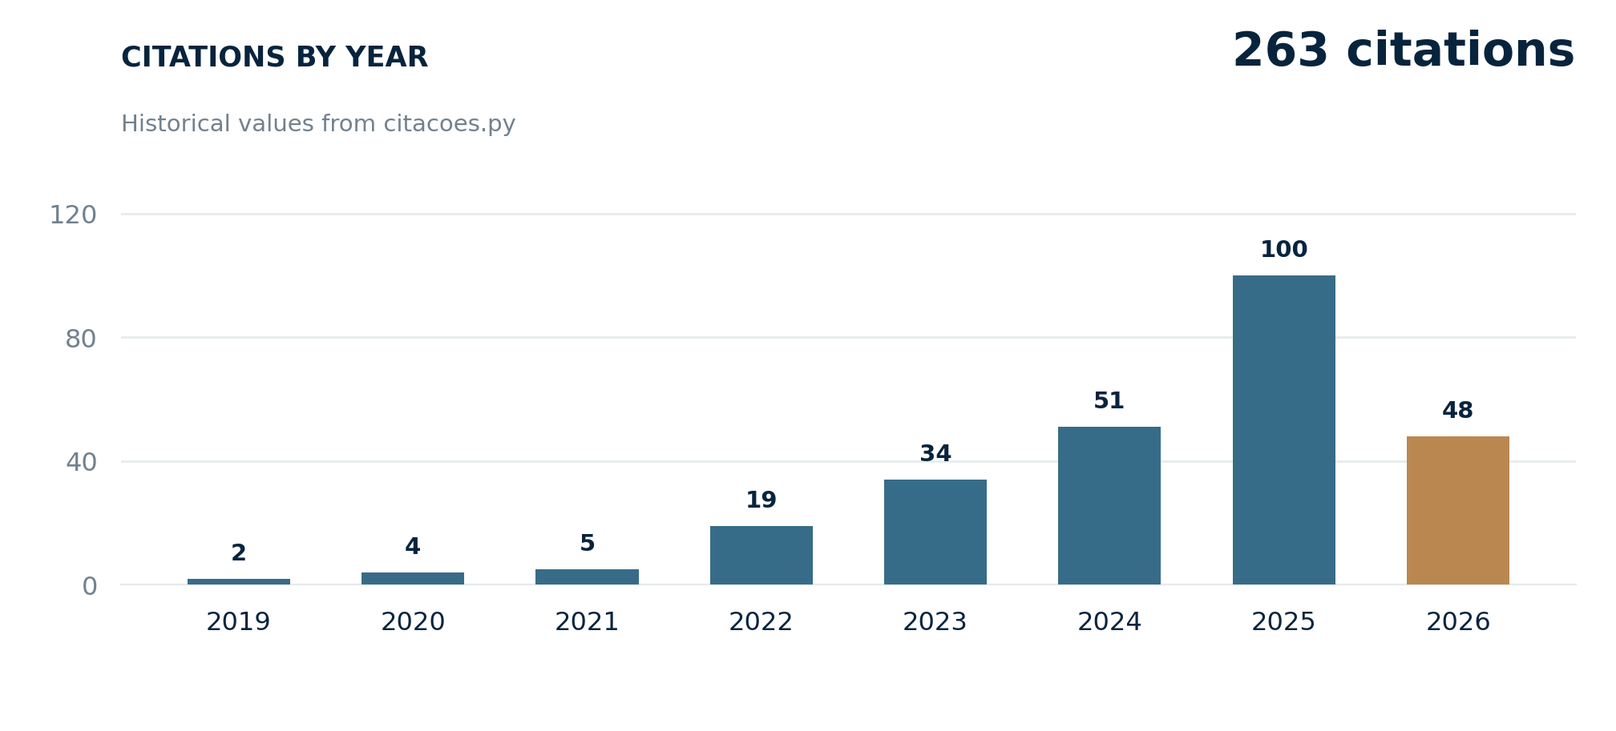
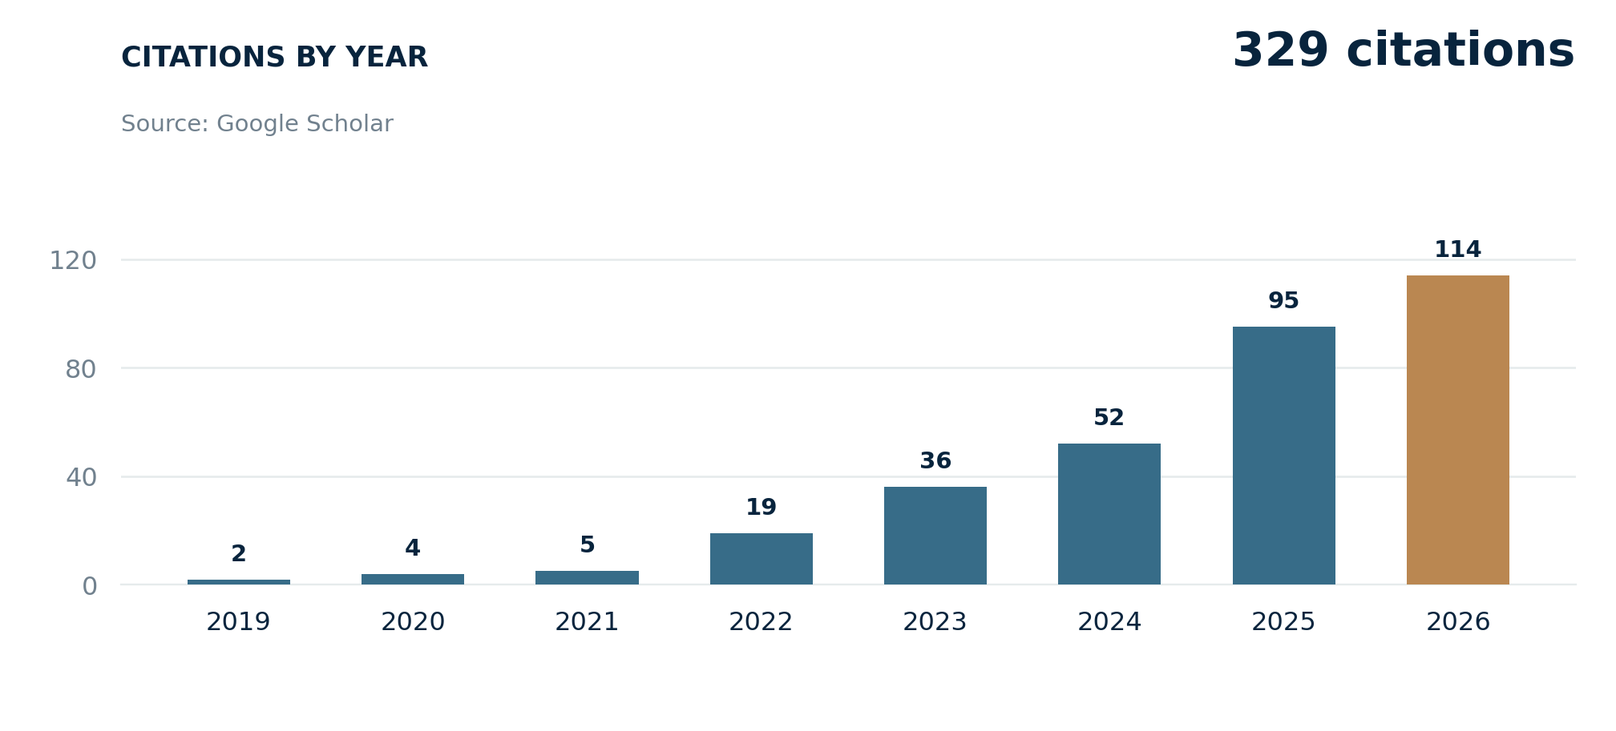
publications

diff --git a/publications.html b/publications.html
@@ -1,17 +1,332 @@
 <!DOCTYPE html>
-
 <html lang="en">
-<head>
-<meta charset="utf-8"/><meta content="width=device-width, initial-scale=1" name="viewport"/>
-<title>Publications</title>
-<meta content="Peer-reviewed articles, academic theses and publication metrics." name="description"/>
-<meta content="#08243d" name="theme-color"/><meta content="light" name="color-scheme"/>
-<meta content="website" property="og:type"/><meta content="Gustavo Madeira" property="og:site_name"/><meta content="Publications | Gustavo Madeira" property="og:title"/><meta content="Peer-reviewed articles, academic theses and publication metrics." property="og:description"/><meta content="https://gusmadeira.github.io/assets/og-cover.jpg" property="og:image"/>
-<link href="https://gusmadeira.github.io/publications.html" rel="canonical"/>
-<link href="assets/favicon.svg" rel="icon" type="image/svg+xml"/><link href="assets/favicon-32.png" rel="alternate icon" type="image/png"/><link href="assets/apple-touch-icon.png" rel="apple-touch-icon"/>
-<link href="https://fonts.googleapis.com" rel="preconnect"/><link crossorigin="" href="https://fonts.gstatic.com" rel="preconnect"/>
-<link href="https://fonts.googleapis.com/css2?family=DM+Sans:wght@400;500;600;700&amp;family=Instrument+Serif:ital@0;1&amp;display=swap" rel="stylesheet"/>
-<link href="styles.css" rel="stylesheet"/>
-<script defer="" src="assets/site.js"></script>
-</head><body><a class="skip-link" href="#main">Skip to content</a>
-<div data-site-header data-active="publications"></div><main id="main"><section aria-labelledby="page-heading" class="page-hero"><div class="container page-hero-content"><p class="eyebrow light-eyebrow">PUBLICATIONS</p><h1 class="display" id="page-heading">Publications</h1><p class="page-summary">Peer-reviewed articles, academic theses and publication metrics.</p></div><div aria-hidden="true" class="page-orbit"><i></i><i></i><i></i></div></section><section class="section-space"><div class="container"><div class="section-heading"><div><p class="eyebrow dark-eyebrow">PUBLICATION RECORD</p><h2 class="display">Articles and theses</h2></div><a class="text-link" href="https://scholar.google.com/citations?user=ZF1mcjoAAAAJ" rel="noopener noreferrer" target="_blank">Google Scholar <span aria-hidden="true">↗</span></a></div><div class="publication-summary"><div class="pub-stats"><div class="eyebrow dark-eyebrow" data-scholar-date>BIBLIOMETRICS / JUNE 2026</div><strong>Research by the numbers</strong><p data-scholar-source>As reported on Google Scholar and the previous version of this website (17 June 2026).</p><div class="metrics"><div><b data-scholar-hindex>11</b><span>h-index</span></div><div><b>24</b><span>Peer-reviewed articles</span></div><div><b>14</b><span>First-author articles</span></div></div></div><div class="pub-chart"><img data-scholar-chart alt="Citation statistics from Google Scholar, updated 17 June 2026" loading="lazy" src="research/output.png"/><small data-scholar-caption>Google Scholar snapshot · 17 June 2026</small></div></div><div class="publications-list"><section class="publication-year" id="year-2026"><div class="publication-year-side"><span>2026</span></div><div class="publication-entries"><a class="pub-entry" href="https://doi.org/10.3847/PSJ/ae81a8" rel="noopener noreferrer" target="_blank"><span class="pub-author">Madeira et al.</span><span class="pub-name">Dynamical Implications of the Recently Detected Feature around Quaoar and Constraints on the Presence of Additional Satellites</span><b aria-hidden="true">↗</b></a><a class="pub-entry" href="https://doi.org/10.1093/mnras/stag761" rel="noopener noreferrer" target="_blank"><span class="pub-author">Pinheiro et al.</span><span class="pub-name">Decoding transit variations: disentangling satellites from planets through numerical modulation</span><b aria-hidden="true">↗</b></a><a class="pub-entry" href="https://iopscience.iop.org/article/10.3847/2041-8213/ae4751" rel="noopener noreferrer" target="_blank"><span class="pub-author">Braga-Ribas et al.</span><span class="pub-name">Evidence of a New Arc or a Belt of Small Satellites around (50000) Quaoar</span><b aria-hidden="true">↗</b></a><a class="pub-entry" href="https://rdcu.be/eJo4H" rel="noopener noreferrer" target="_blank"><span class="pub-author">Madeira et al.</span><span class="pub-name">Do self-gravitating hard-sphere disk simulations form Darwin ellipsoids?</span><b aria-hidden="true">↗</b></a></div></section><section class="publication-year" id="year-2025"><div class="publication-year-side"><span>2025</span></div><div class="publication-entries"><a class="pub-entry" href="https://www.nature.com/articles/s41467-025-66484-3" rel="noopener noreferrer" target="_blank"><span class="pub-author">Raducan et al.</span><span class="pub-name">Multiple moonlet mergers as the origin of the Dinkinesh-Selam system</span><b aria-hidden="true">↗</b></a><a class="pub-entry" href="https://iopscience.iop.org/article/10.3847/1538-4357/ae169e" rel="noopener noreferrer" target="_blank"><span class="pub-author">Madeira et al.</span><span class="pub-name">Dynamical Environment and Stability around Centaur (2060) Chiron</span><b aria-hidden="true">↗</b></a><a class="pub-entry" href="https://arxiv.org/pdf/2507.04954.pdf" rel="noopener noreferrer" target="_blank"><span class="pub-author">Madeira et al.</span><span class="pub-name">On the formation of satellites in dense solid-particle disks</span><b aria-hidden="true">↗</b></a><a class="pub-entry" href="https://www.sciencedirect.com/science/article/pii/S0012821X24005958" rel="noopener noreferrer" target="_blank"><span class="pub-author">Madeira et al.</span><span class="pub-name">Hydrodynamical simulations of proto-Moon degassing</span><b aria-hidden="true">↗</b></a><a class="pub-entry" href="https://www.nature.com/articles/s41561-024-01598-9" rel="noopener noreferrer" target="_blank"><span class="pub-author">Hyodo et al.</span><span class="pub-name">Pollution resistance of Saturn’s ring particles during micrometeoroid impact</span><b aria-hidden="true">↗</b></a></div></section><section class="publication-year" id="year-2024"><div class="publication-year-side"><span>2024</span></div><div class="publication-entries"><a class="pub-entry" href="https://www.sciencedirect.com/science/article/pii/S0019103524002835" rel="noopener noreferrer" target="_blank"><span class="pub-author">Wimarsson et al.</span><span class="pub-name">Rapid formation of binary asteroid systems post rotational failure: A recipe for making atypically shaped satellites</span><b aria-hidden="true">↗</b></a><a class="pub-entry" href="https://arxiv.org/pdf/2402.03943.pdf" rel="noopener noreferrer" target="_blank"><span class="pub-author">Madeira et al.</span><span class="pub-name">Long-term dust dynamics in the Didymos and Dimorphos system: Production, stability, and transport.</span><b aria-hidden="true">↗</b></a><a class="pub-entry" href="https://arxiv.org/pdf/2311.07271.pdf" rel="noopener noreferrer" target="_blank"><span class="pub-author">Madeira &amp; Charnoz</span><span class="pub-name">Revisiting Dimorphos formation: A pyramidal regime perspective and application to Dinkinesh’s satellite</span><b aria-hidden="true">↗</b></a></div></section><section class="publication-year" id="year-2023"><div class="publication-year-side"><span>2023</span></div><div class="publication-entries"><a class="pub-entry" href="https://www.aanda.org/articles/aa/pdf/2023/11/aa45864-23.pdf" rel="noopener noreferrer" target="_blank"><span class="pub-author">Giuliatti Winter et al.</span><span class="pub-name">The stability around Chariklo and the confinement of its rings</span><b aria-hidden="true">↗</b></a><a class="pub-entry" href="https://doi.org/10.1093/mnras/stad2362" rel="noopener noreferrer" target="_blank"><span class="pub-author">Ribeiro et al.</span><span class="pub-name">Dynamics around non-spherical symmetric bodies: II. The case of a prolate body</span><b aria-hidden="true">↗</b></a><a class="pub-entry" href="https://arxiv.org/pdf/2301.02121.pdf" rel="noopener noreferrer" target="_blank"><span class="pub-author">Madeira et al.</span><span class="pub-name">Dynamical origin of Dimorphos from fast spinning Didymos</span><b aria-hidden="true">↗</b></a><a class="pub-entry" href="https://iopscience.iop.org/article/10.3847/1538-3881/acbf53/pdf" rel="noopener noreferrer" target="_blank"><span class="pub-author">Madeira et al.</span><span class="pub-name">Exploring the recycling model of Phobos formation: rubble-pile satellites</span><b aria-hidden="true">↗</b></a></div></section><section class="publication-year" id="year-2022"><div class="publication-year-side"><span>2022</span></div><div class="publication-entries"><a class="pub-entry" href="https://doi.org/10.1093/mnras/stac944" rel="noopener noreferrer" target="_blank"><span class="pub-author">Madeira &amp; Giuliatti Winter</span><span class="pub-name">Numerical analysis of processes for the formation of moonlets confining the arcs of Neptune</span><b aria-hidden="true">↗</b></a><a class="pub-entry" href="https://iopscience.iop.org/article/10.3847/PSJ/ac88d2/pdf" rel="noopener noreferrer" target="_blank"><span class="pub-author">Hyodo et al.</span><span class="pub-name">Challenges in Forming Phobos and Deimos Directly from a Splitting of an Ancestral Single Moon</span><b aria-hidden="true">↗</b></a><a class="pub-entry" href="https://doi.org/10.1093/mnras/stab3552" rel="noopener noreferrer" target="_blank"><span class="pub-author">Madeira et al.</span><span class="pub-name">Dynamics around non-spherical symmetric bodies–I. The case of a spherical body with mass anomaly</span><b aria-hidden="true">↗</b></a><a class="pub-entry" href="https://doi.org/10.1093/mnras/stab3627" rel="noopener noreferrer" target="_blank"><span class="pub-author">Muñoz-Gutiérrez et al.</span><span class="pub-name">Long-term dynamical evolution of Pallene (Saturn XXXIII) and its diffuse, dusty ring</span><b aria-hidden="true">↗</b></a></div></section><section class="publication-year" id="year-2021"><div class="publication-year-side"><span>2021</span></div><div class="publication-entries"><a class="pub-entry" href="https://doi.org/10.1093/mnras/stab986" rel="noopener noreferrer" target="_blank"><span class="pub-author">Madeira et al.</span><span class="pub-name">Building the Galilean moons system via pebble accretion and migration: a primordial resonant chain</span><b aria-hidden="true">↗</b></a></div></section><section class="publication-year" id="year-2020"><div class="publication-year-side"><span>2020</span></div><div class="publication-entries"><a class="pub-entry" href="https://arxiv.org/pdf/2003.02325.pdf" rel="noopener noreferrer" target="_blank"><span class="pub-author">Gaslac Gallardo et al.</span><span class="pub-name">Analysing the region of the rings and small satellites of Neptune</span><b aria-hidden="true">↗</b></a><a class="pub-entry" href="https://arxiv.org/pdf/2004.14972.pdf" rel="noopener noreferrer" target="_blank"><span class="pub-author">Madeira &amp; Giuliatti Winter</span><span class="pub-name">Effects of immersed moonlets in the ring arc particles of Saturn</span><b aria-hidden="true">↗</b></a><a class="pub-entry" href="https://doi.org/10.1093/mnras/staa1519" rel="noopener noreferrer" target="_blank"><span class="pub-author">Giuliatti Winter et al.</span><span class="pub-name">Neptune’s ring arcs confined by coorbital satellites: dust orbital evolution through solar radiation</span><b aria-hidden="true">↗</b></a></div></section><section class="publication-year" id="year-2018"><div class="publication-year-side"><span>2018</span></div><div class="publication-entries"><a class="pub-entry" href="https://doi.org/10.1093/mnras/sty179" rel="noopener noreferrer" target="_blank"><span class="pub-author">Madeira et al.</span><span class="pub-name">Production and fate of the G ring arc particles due to Aegaeon (Saturn LIII)</span><b aria-hidden="true">↗</b></a></div></section><section class="publication-year" id="year-further"><div class="publication-year-side"><span>Further publications</span></div><div class="publication-entries"><a class="pub-entry" href="https://repositorio.unesp.br/items/28f0fe07-e7f5-4107-95a1-d73bdc02b22b" rel="noopener noreferrer" target="_blank"><span class="pub-author">PhD thesis (2023)</span><span class="pub-name">Exploring models of formation and dynamic evolution of satellites and rings of the solar system</span><b aria-hidden="true">↗</b></a><a class="pub-entry" href="https://repositorio.unesp.br/server/api/core/bitstreams/334e1cfc-fc32-4be4-9fd5-473231a8a3f5/content" rel="noopener noreferrer" target="_blank"><span class="pub-author">Master’s dissertation (2019)</span><span class="pub-name">Estudo da evolução orbital de partículas em ressonância de corrotação e Lindblad e sob influência de satélites coorbitais: aplicação aos arcos planetários</span><b aria-hidden="true">↗</b></a><a class="pub-entry" href="https://repositorio.unesp.br/server/api/core/bitstreams/15d2ca07-fda6-4096-8bd8-7440b4f2631c/content" rel="noopener noreferrer" target="_blank"><span class="pub-author">Undergraduate thesis (2016)</span><span class="pub-name">Dinâmica de partículas micrométricas no arco do anel G de Saturno</span><b aria-hidden="true">↗</b></a></div></section></div></div></section></main><div data-site-footer></div></body></html>
+    <head>
+        <meta charset="utf-8"/>
+        <meta content="width=device-width, initial-scale=1" name="viewport"/>
+        <title>Publications</title>
+        <meta content="Peer-reviewed articles, academic theses and publication metrics." name="description"/>
+        <meta content="#08243d" name="theme-color"/>
+        <meta content="light" name="color-scheme"/>
+        <meta content="website" property="og:type"/>
+        <meta content="Gustavo Madeira" property="og:site_name"/>
+        <meta content="Publications | Gustavo Madeira" property="og:title"/>
+        <meta content="Peer-reviewed articles, academic theses and publication metrics." property="og:description"/>
+        <meta content="https://gusmadeira.github.io/assets/og-cover.jpg" property="og:image"/>
+        <link href="https://gusmadeira.github.io/publications.html" rel="canonical"/>
+        <link href="assets/favicon.svg" rel="icon" type="image/svg+xml"/>
+        <link href="assets/favicon-32.png" rel="alternate icon" type="image/png"/>
+        <link href="assets/apple-touch-icon.png" rel="apple-touch-icon"/>
+        <link href="https://fonts.googleapis.com" rel="preconnect"/>
+        <link crossorigin="" href="https://fonts.gstatic.com" rel="preconnect"/>
+        <link href="https://fonts.googleapis.com/css2?family=DM+Sans:wght@400;500;600;700&amp;family=Instrument+Serif:ital@0;1&amp;display=swap" rel="stylesheet"/>
+        <link href="styles.css" rel="stylesheet"/>
+        <script defer="" src="assets/site.js"></script>
+    </head>
+    <body>
+        <a class="skip-link" href="#main">Skip to content</a>
+        <div data-site-header data-active="publications"></div>
+        <main id="main">
+            <section aria-labelledby="page-heading" class="page-hero">
+                <div class="container page-hero-content">
+                    <h1 class="display" id="page-heading">Publications</h1>
+                </div>
+                <div aria-hidden="true" class="page-orbit">
+                    <i></i>
+                    <i></i>
+                    <i></i>
+                </div>
+            </section>
+            <section class="section-space">
+                <div class="container">
+                    <div class="section-heading">
+                        <div>
+                            <p class="eyebrow dark-eyebrow">PUBLICATION RECORD</p>
+                        </div>
+                        <a class="text-link" href="https://scholar.google.com/citations?user=ZF1mcjoAAAAJ" rel="noopener noreferrer" target="_blank">
+                            Google Scholar 
+                            <span aria-hidden="true">↗</span>
+                        </a>
+                    </div>
+                    <div class="publication-summary">
+                        <div class="pub-stats">
+                            <div class="eyebrow dark-eyebrow" data-scholar-date>BIBLIOMETRICS / NOV 2026</div>
+                            <strong>Research by the numbers</strong>
+                            <div class="metrics">
+                                <div>
+                                    <b data-scholar-hindex>11</b>
+                                    <span>h-index</span>
+                                </div>
+                                <div>
+                                    <b>28</b>
+                                    <span>Peer-reviewed articles</span>
+                                </div>
+                                <div>
+                                    <b>15</b>
+                                    <span>First-author articles</span>
+                                </div>
+                            </div>
+                        </div>
+                        <div class="pub-chart">
+                            <img data-scholar-chart alt="Annual Google Scholar citations, updated 7 November 2026" loading="lazy" src="research/output.png?v=20261107"/>
+                            <small data-scholar-caption>Google Scholar · 329 citations · 7 November 2026</small>
+                        </div>
+                    </div>
+                    <div class="publications-list">
+                        <section class="publication-year" id="year-2026">
+                            <div class="publication-year-side">
+                                <span>2026</span>
+                            </div>
+                            <div class="publication-entries">
+                                <a class="pub-entry" href="https://arxiv.org/abs/2611.04800" rel="noopener noreferrer" target="_blank">
+                                    <span class="pub-author">Madeira & Pinheiro</span>
+                                    <span class="pub-name">Disruption limits around triaxial bodies and implications for ring-bearing minor bodies</span>
+                                    <b aria-hidden="true">↗</b>
+                                </a>
+
+                                
+                                <a class="pub-entry" href="https://arxiv.org/abs/2610.30494" rel="noopener noreferrer" target="_blank">
+                                    <span class="pub-author">Margoti et al.</span>
+                                    <span class="pub-name">Ellipsoidal Modeling Framework for TNOs: the triaxial shape of (50000) Quaoar and its implications for Weywot and the dynamical environment</span>
+                                    <b aria-hidden="true">↗</b>
+                                </a>
+
+                                
+                                <a class="pub-entry" href="https://doi.org/10.1093/mnras/stag1900" rel="noopener noreferrer" target="_blank">
+                                    <span class="pub-author">Soares et al.</span>
+                                    <span class="pub-name">Dynamics around non-spherical symmetric bodies–III. The case of a spherical body with a crater</span>
+                                    <b aria-hidden="true">↗</b>
+                                </a>
+
+                                
+                                <a class="pub-entry" href="https://doi.org/10.3847/PSJ/ae81a8" rel="noopener noreferrer" target="_blank">
+                                    <span class="pub-author">Madeira et al.</span>
+                                    <span class="pub-name">Dynamical Implications of the Recently Detected Feature around Quaoar and Constraints on the Presence of Additional Satellites</span>
+                                    <b aria-hidden="true">↗</b>
+                                </a>
+
+                                <a class="pub-entry" href="https://doi.org/10.1093/mnras/stag761" rel="noopener noreferrer" target="_blank">
+                                    <span class="pub-author">Pinheiro et al.</span>
+                                    <span class="pub-name">Decoding transit variations: disentangling satellites from planets through numerical modulation</span>
+                                    <b aria-hidden="true">↗</b>
+                                </a>
+
+                                <a class="pub-entry" href="https://iopscience.iop.org/article/10.3847/2041-8213/ae4751" rel="noopener noreferrer" target="_blank">
+                                    <span class="pub-author">Braga-Ribas et al.</span>
+                                    <span class="pub-name">Evidence of a New Arc or a Belt of Small Satellites around (50000) Quaoar</span>
+                                    <b aria-hidden="true">↗</b>
+                                </a>
+
+                                <a class="pub-entry" href="https://rdcu.be/eJo4H" rel="noopener noreferrer" target="_blank">
+                                    <span class="pub-author">Madeira et al.</span>
+                                    <span class="pub-name">Do self-gravitating hard-sphere disk simulations form Darwin ellipsoids?</span>
+                                    <b aria-hidden="true">↗</b>
+                                </a>
+                            </div>
+                        </section>
+
+                        <section class="publication-year" id="year-2025">
+                            <div class="publication-year-side">
+                                <span>2025</span>
+                            </div>
+                            <div class="publication-entries">
+                                <a class="pub-entry" href="https://www.nature.com/articles/s41467-025-66484-3" rel="noopener noreferrer" target="_blank">
+                                    <span class="pub-author">Raducan et al.</span>
+                                    <span class="pub-name">Multiple moonlet mergers as the origin of the Dinkinesh-Selam system</span>
+                                    <b aria-hidden="true">↗</b>
+                                </a>
+
+                                <a class="pub-entry" href="https://iopscience.iop.org/article/10.3847/1538-4357/ae169e" rel="noopener noreferrer" target="_blank">
+                                    <span class="pub-author">Madeira et al.</span>
+                                    <span class="pub-name">Dynamical Environment and Stability around Centaur (2060) Chiron</span>
+                                    <b aria-hidden="true">↗</b>
+                                </a>
+
+                                <a class="pub-entry" href="https://arxiv.org/pdf/2507.04954.pdf" rel="noopener noreferrer" target="_blank">
+                                    <span class="pub-author">Madeira et al.</span>
+                                    <span class="pub-name">On the formation of satellites in dense solid-particle disks</span>
+                                    <b aria-hidden="true">↗</b>
+                                </a>
+
+                                <a class="pub-entry" href="https://www.sciencedirect.com/science/article/pii/S0012821X24005958" rel="noopener noreferrer" target="_blank">
+                                    <span class="pub-author">Madeira et al.</span>
+                                    <span class="pub-name">Hydrodynamical simulations of proto-Moon degassing</span>
+                                    <b aria-hidden="true">↗</b>
+                                </a>
+
+                                <a class="pub-entry" href="https://www.nature.com/articles/s41561-024-01598-9" rel="noopener noreferrer" target="_blank">
+                                    <span class="pub-author">Hyodo et al.</span>
+                                    <span class="pub-name">Pollution resistance of Saturn’s ring particles during micrometeoroid impact</span>
+                                    <b aria-hidden="true">↗</b>
+                                </a>
+                            </div>
+                        </section>
+
+                        <section class="publication-year" id="year-2024">
+                            <div class="publication-year-side">
+                                <span>2024</span>
+                            </div>
+                            <div class="publication-entries">
+                                <a class="pub-entry" href="https://www.sciencedirect.com/science/article/pii/S0019103524002835" rel="noopener noreferrer" target="_blank">
+                                    <span class="pub-author">Wimarsson et al.</span>
+                                    <span class="pub-name">Rapid formation of binary asteroid systems post rotational failure: A recipe for making atypically shaped satellites</span>
+                                    <b aria-hidden="true">↗</b>
+                                </a>
+
+                                <a class="pub-entry" href="https://arxiv.org/pdf/2402.03943.pdf" rel="noopener noreferrer" target="_blank">
+                                    <span class="pub-author">Madeira et al.</span>
+                                    <span class="pub-name">Long-term dust dynamics in the Didymos and Dimorphos system: Production, stability, and transport.</span>
+                                    <b aria-hidden="true">↗</b>
+                                </a>
+
+                                <a class="pub-entry" href="https://arxiv.org/pdf/2311.07271.pdf" rel="noopener noreferrer" target="_blank">
+                                    <span class="pub-author">Madeira &amp; Charnoz</span>
+                                    <span class="pub-name">Revisiting Dimorphos formation: A pyramidal regime perspective and application to Dinkinesh’s satellite</span>
+                                    <b aria-hidden="true">↗</b>
+                                </a>
+                            </div>
+                        </section>
+
+                        <section class="publication-year" id="year-2023">
+                            <div class="publication-year-side">
+                                <span>2023</span>
+                            </div>
+                            <div class="publication-entries">
+                                <a class="pub-entry" href="https://www.aanda.org/articles/aa/pdf/2023/11/aa45864-23.pdf" rel="noopener noreferrer" target="_blank">
+                                    <span class="pub-author">Giuliatti Winter et al.</span>
+                                    <span class="pub-name">The stability around Chariklo and the confinement of its rings</span>
+                                    <b aria-hidden="true">↗</b>
+                                </a>
+
+                                <a class="pub-entry" href="https://doi.org/10.1093/mnras/stad2362" rel="noopener noreferrer" target="_blank">
+                                    <span class="pub-author">Ribeiro et al.</span>
+                                    <span class="pub-name">Dynamics around non-spherical symmetric bodies: II. The case of a prolate body</span>
+                                    <b aria-hidden="true">↗</b>
+                                </a>
+
+                                <a class="pub-entry" href="https://arxiv.org/pdf/2301.02121.pdf" rel="noopener noreferrer" target="_blank">
+                                    <span class="pub-author">Madeira et al.</span>
+                                    <span class="pub-name">Dynamical origin of Dimorphos from fast spinning Didymos</span>
+                                    <b aria-hidden="true">↗</b>
+                                </a>
+
+                                <a class="pub-entry" href="https://iopscience.iop.org/article/10.3847/1538-3881/acbf53/pdf" rel="noopener noreferrer" target="_blank">
+                                    <span class="pub-author">Madeira et al.</span>
+                                    <span class="pub-name">Exploring the recycling model of Phobos formation: rubble-pile satellites</span>
+                                    <b aria-hidden="true">↗</b>
+                                </a>
+                            </div>
+                        </section>
+
+                        <section class="publication-year" id="year-2022">
+                            <div class="publication-year-side">
+                                <span>2022</span>
+                            </div>
+                            <div class="publication-entries">
+                                <a class="pub-entry" href="https://doi.org/10.1093/mnras/stac944" rel="noopener noreferrer" target="_blank">
+                                    <span class="pub-author">Madeira &amp; Giuliatti Winter</span>
+                                    <span class="pub-name">Numerical analysis of processes for the formation of moonlets confining the arcs of Neptune</span>
+                                    <b aria-hidden="true">↗</b>
+                                </a>
+
+                                <a class="pub-entry" href="https://iopscience.iop.org/article/10.3847/PSJ/ac88d2/pdf" rel="noopener noreferrer" target="_blank">
+                                    <span class="pub-author">Hyodo et al.</span>
+                                    <span class="pub-name">Challenges in Forming Phobos and Deimos Directly from a Splitting of an Ancestral Single Moon</span>
+                                    <b aria-hidden="true">↗</b>
+                                </a>
+
+                                <a class="pub-entry" href="https://doi.org/10.1093/mnras/stab3552" rel="noopener noreferrer" target="_blank">
+                                    <span class="pub-author">Madeira et al.</span>
+                                    <span class="pub-name">Dynamics around non-spherical symmetric bodies–I. The case of a spherical body with mass anomaly</span>
+                                    <b aria-hidden="true">↗</b>
+                                </a>
+
+                                <a class="pub-entry" href="https://doi.org/10.1093/mnras/stab3627" rel="noopener noreferrer" target="_blank">
+                                    <span class="pub-author">Muñoz-Gutiérrez et al.</span>
+                                    <span class="pub-name">Long-term dynamical evolution of Pallene (Saturn XXXIII) and its diffuse, dusty ring</span>
+                                    <b aria-hidden="true">↗</b>
+                                </a>
+                            </div>
+                        </section>
+
+                        <section class="publication-year" id="year-2021">
+                            <div class="publication-year-side">
+                                <span>2021</span>
+                            </div>
+                            <div class="publication-entries">
+                                <a class="pub-entry" href="https://doi.org/10.1093/mnras/stab986" rel="noopener noreferrer" target="_blank">
+                                    <span class="pub-author">Madeira et al.</span>
+                                    <span class="pub-name">Building the Galilean moons system via pebble accretion and migration: a primordial resonant chain</span>
+                                    <b aria-hidden="true">↗</b>
+                                </a>
+                            </div>
+                        </section>
+
+                        <section class="publication-year" id="year-2020">
+                            <div class="publication-year-side">
+                                <span>2020</span>
+                            </div>
+                            <div class="publication-entries">
+                                <a class="pub-entry" href="https://arxiv.org/pdf/2003.02325.pdf" rel="noopener noreferrer" target="_blank">
+                                    <span class="pub-author">Gaslac Gallardo et al.</span>
+                                    <span class="pub-name">Analysing the region of the rings and small satellites of Neptune</span>
+                                    <b aria-hidden="true">↗</b>
+                                </a>
+
+                                <a class="pub-entry" href="https://arxiv.org/pdf/2004.14972.pdf" rel="noopener noreferrer" target="_blank">
+                                    <span class="pub-author">Madeira &amp; Giuliatti Winter</span>
+                                    <span class="pub-name">Effects of immersed moonlets in the ring arc particles of Saturn</span>
+                                    <b aria-hidden="true">↗</b>
+                                </a>
+
+                                <a class="pub-entry" href="https://doi.org/10.1093/mnras/staa1519" rel="noopener noreferrer" target="_blank">
+                                    <span class="pub-author">Giuliatti Winter et al.</span>
+                                    <span class="pub-name">Neptune’s ring arcs confined by coorbital satellites: dust orbital evolution through solar radiation</span>
+                                    <b aria-hidden="true">↗</b>
+                                </a>
+                            </div>
+                        </section>
+
+                        <section class="publication-year" id="year-2018">
+                            <div class="publication-year-side">
+                                <span>2018</span>
+                            </div>
+                            <div class="publication-entries">
+                                <a class="pub-entry" href="https://doi.org/10.1093/mnras/sty179" rel="noopener noreferrer" target="_blank">
+                                    <span class="pub-author">Madeira et al.</span>
+                                    <span class="pub-name">Production and fate of the G ring arc particles due to Aegaeon (Saturn LIII)</span>
+                                    <b aria-hidden="true">↗</b>
+                                </a>
+                            </div>
+                        </section>
+
+                        <section class="publication-year" id="year-further">
+                            <div class="publication-year-side">
+                                <span>Further publications</span>
+                            </div>
+                            <div class="publication-entries">
+                                <a class="pub-entry" href="https://repositorio.unesp.br/items/28f0fe07-e7f5-4107-95a1-d73bdc02b22b" rel="noopener noreferrer" target="_blank">
+                                    <span class="pub-author">PhD thesis (2023)</span>
+                                    <span class="pub-name">Exploring models of formation and dynamic evolution of satellites and rings of the solar system</span>
+                                    <b aria-hidden="true">↗</b>
+                                </a>
+
+                                <a class="pub-entry" href="https://repositorio.unesp.br/server/api/core/bitstreams/334e1cfc-fc32-4be4-9fd5-473231a8a3f5/content" rel="noopener noreferrer" target="_blank">
+                                    <span class="pub-author">Master’s dissertation (2019)</span>
+                                    <span class="pub-name">Estudo da evolução orbital de partículas em ressonância de corrotação e Lindblad e sob influência de satélites coorbitais: aplicação aos arcos planetários</span>
+                                    <b aria-hidden="true">↗</b>
+                                </a>
+
+                                <a class="pub-entry" href="https://repositorio.unesp.br/server/api/core/bitstreams/15d2ca07-fda6-4096-8bd8-7440b4f2631c/content" rel="noopener noreferrer" target="_blank">
+                                    <span class="pub-author">Undergraduate thesis (2016)</span>
+                                    <span class="pub-name">Dinâmica de partículas micrométricas no arco do anel G de Saturno</span>
+                                    <b aria-hidden="true">↗</b>
+                                </a>
+                            </div>
+                        </section>
+                    </div>
+                </div>
+            </section>
+        </main>
+        <div data-site-footer></div>
+    </body>
+</html>
